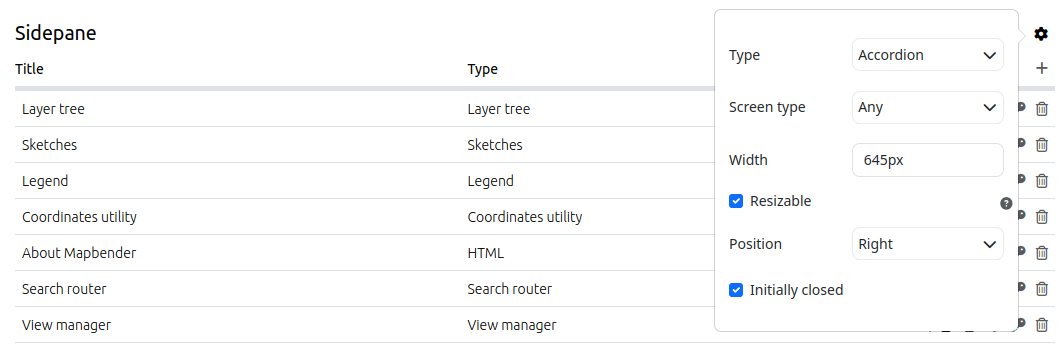
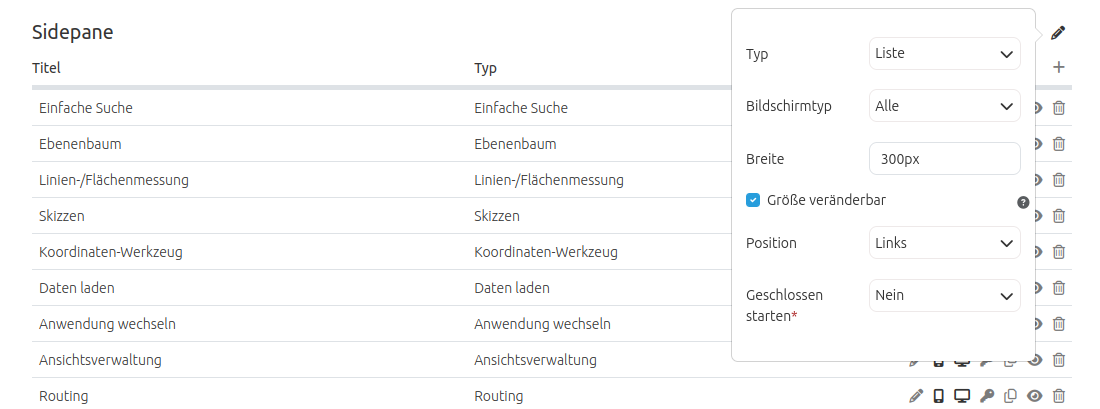
update Backend region menu options and screenshot and migration

diff --git a/de/backend/applications/layouts.rst b/de/backend/applications/layouts.rst
@@ -12,23 +12,15 @@ Layouts
 Im Layouts-Bereich des :ref:`backend_de` einer Anwendung werden die jeweiligen Frontend-Regionen der Anwendung und die in ihnen enthaltenen Elemente aufgelistet.
 Eine Übersicht über alle Elemente gibt es unter :ref:`elements_de`.
 
-.. note:: Unterschiedliche Templates können durch unterschiedliche Regionen strukturiert sein.
+.. note:: Unterschiedliche Templates können durch unterschiedliche Regionen strukturiert sein. Die Demo-Anwendungen nutzen das selbe Layout. Nicht jedes Element kann in jeder Region verwendet werden. Mapbender achtet darauf.
 
 
 Layout des Fullscreen Templates:
 
-* Obere Werkzeugleiste (Region für die Platzierung von Buttons, Links, HTML, ...)
-* Sidepane (Seitenleisten-Region für den Ebenenbaum, die Legende, die Suche, den Druck, HTML, ...)
-* Kartenbereich (Region für die Karte, die Maßstabsleiste, ...)
-* Fußzeile (Region für das Impressum, die Aktivitätsanzeige, die Maßstabsauswahl, ...)
-
-
-Layout des Mobilen Templates:
-
-* Fußzeile (Region für das Copyright, die Aktivitätsanzeige, die Maßstabsauswahl, ...)
-* Kartenbereich (Region für die Karte, die Maßstabsleiste, ...)
-* MobilePane (Region für Dialoge wie den Ebenenbaum, die Legende, den Hintergrundwechsler, die Infoabfrage, ...)
-
+* **Obere Werkzeugleiste** - Region für die Platzierung von Buttons, Links, HTML, ...
+* **Sidepane** - Seitenleisten-Region für den Ebenenbaum, die Legende, die Suche, den Druck, HTML, ...
+* **Kartenbereich** - Region für die Karte, die Maßstabsleiste, ...
+* **Fußzeile** - Region für das Impressum, die Aktivitätsanzeige, die Maßstabsauswahl, ...
 
 Der |mapbender-button-add| Button rechts oberhalb des Bereichs ermöglicht das Hinzufügen von Elementen. Nach dem Klick auf den Button öffnet sich eine Dialogmaske, die die Auswahl eines Elements und dessen anschließende Konfiguration ermöglicht.
 
@@ -44,9 +36,9 @@ Konfigurationsmöglichkeiten der Oberen Werkzeugleiste und Fußzeile
 Die Regionen der Oberen Werkzeugleiste und der Fußzeile bieten folgende Konfigurationsmöglichkeiten über den |mapbender-button-edit| Button an:
 
 * **Bildschirmtyp** (Alle, Mobil, Desktop. Standard: Alle) Bei dieser Option wird der Bereich für die nicht ausgewählte Geräteart ausgeblendet. *Alle* zeigt die Region auf allen Geräten an.
-* **Ausrichtung** (Links, Rechts, Zentriert. Standard: Rechts.): Die Ausrichtung definiert die Positionierung der Elemente innerhalb der Bereiche.
-* **Checkbox Schaltflächen zu Menü zusammenfassen**: Konfiguriert ein Ausklappmenü, welches die in den Bereich eingebundenen Elemente umfasst.
-* **Menütitel-Textfeld**: Mit dieser Textbox lässt sich dem Ausklappmenü eine Beschriftung zuweisen.
+* **Ausrichtung** (Links, Rechts, Zentriert. Standard: Rechts): Die Ausrichtung definiert die Positionierung der Elemente innerhalb der Bereiche.
+* **Menü**: (No, nur Desktop, nur Mobil, Desktop + Mobil, Standard: nur Mobil) Elemente werden in ein aufklappbares Menü zusammengefasst.
+* **Menütitel**: Es lässt sich ein Text definieren, der dem Menü vorangestellt wird.
 
 .. tip:: **Hinweis**: Das Ausklappmenü ist besonders sinnvoll, wenn die Anwendung für mobile Endgeräte ausgerichtet sein soll. Unter :ref:`CSS_de` findet sich ein Codebaustein, der die Bedienbarkeit bei Anwendungen mit vielen Elementen erhöht. 
 
@@ -58,10 +50,10 @@ Diese Vorlage kann zur **Eigenschaftenkonfiguration** der Oberen Werkzeugleiste 
 
     - name: toolbar
       properties:
-        item_alignment: right  # right/left/center
-        screenType: all         # desktop/mobile/all
-        generate_button_menu: false # true/false
-        menu_label: "Menu" # NULL or text
+        item_alignment: right # right/left/center - Standard right
+        screenType: all # all/desktop/mobile - Standard all
+        generate_button_menu: only_mobile # no/yes/only_desktop/only_mobile - Standard only_mobile
+        menu_label: "Menu" # NULL oder Text
 
 Außerdem kann diese Vorlage verwendet werden, um eine **Eigenschaftenkonfiguration** für die Fußzeile einer YAML-Anwendung vorzunehmen:
 
@@ -69,10 +61,14 @@ Außerdem kann diese Vorlage verwendet werden, um eine **Eigenschaftenkonfigurat
 
     - name: footer
       properties:
-        item_alignment: right # right/left/center
-        screenType: all # all/desktop/mobile
-        generate_button_menu: false # true/false
-        menu_label: "Menu" # NULL or text
+        item_alignment: right # right/left/center - Standard right
+        screenType: all # all/desktop/mobile - Standard all
+        generate_button_menu: only_mobile # no/yes/only_desktop/only_mobile - Standard only_mobile
+        menu_label: "Menu" # NULL oder Text
+
+
+.. image:: ../../../figures/de/toolbar_backend.png
+    :alt: Mapbender Toolbar Optionen
 
 
 Sidepane-Konfigurationsmöglichkeiten
@@ -88,12 +84,13 @@ Die Ansichtsoptionen für die Sidepane können im Sidepane-Bereich im Mapbender-
 * **Breite** (in Pixeln, Standard: 350 px) Definiert über einen Pixelwert die Breite der Sidepane in der Anwendung.
 * **Größe veränderbar** (Standard: true): Erlaubt das Verbreitern und Verkleinern der Seitenleiste.
 * **Position** (Links, Rechts. Standard: Links) gibt an, ob die Sidepane am linken oder rechten Bildschirmrand angezeigt wird.
-* **Geschlossen starten** (Standard: deaktiviert) hält nach Aktivierung die Sidepane bei Anwendungsstart eingeklappt. Sie ist über einen Button in der Anwendung nachträglich aus- & wieder einklappbar.
+* **Geschlossen starten** (No, nur Desktop, nur Mobil, Desktop + Mobil) Verhalten der  Sidepane bei Anwendungsstart - zugeklappt / aufgeklappt.
 
 Die Option **Typ** zeigt die Sidepane-Elemente in unterschiedlichen Ansichten an:
 
-- ``Akkordeon`` zeigt alle hinzugefügten Elemente in Reitern.
 - ``Buttons`` zeigt alle hinzugefügten Elemente über Buttons.
+- ``Akkordeon`` zeigt alle hinzugefügten Elemente in Reitern.
+- ``Liste`` zeigt alle Elemente als Liste. Das aktive Element nimmt den gesamten Bereich der Sidepane ein.
 - ``Unformatiert`` verzichtet auf Styling-Optionen und zeigt die Elemente direkt und in der im :ref:`backend_de` gewählten Reihenfolge untereinander an.
 
 Die Option **Größe verändern** geht von einer minimalen Breite von 120 px und einem Maximum von 95 % der Bildschirmbreite aus. Diese Werte können über CSS angepasst werden:
@@ -115,13 +112,15 @@ Diese Vorlage kann zur **Eigenschaftenkonfiguration** der Sidepane in einer YAML
       properties:
         name: accordion # tabs (für Button) / accordion (für Akkordeon) / NULL (für unformatiert)
         align: right # right/left
-        closed: false # true/false
+        closed: no # no/yes/only_desktop/only_mobile
         screenType: all # all/desktop/mobile
         width: "654px"
+
 
 Element-Buttonleiste
 ********************
 Jedem Element kann ein konfigurierter Button zugewiesen werden. Die Buttonleiste dient der Konfiguration dieser Buttons.
+
 Dabei verfügen die Buttons über folgende Optionen:
 
 .. image:: ../../../figures/mapbender_layouts_button_area.png
@@ -163,7 +162,3 @@ Der Schlüssel wird nach erfolgreicher Rechtevergabe rot. Wenn Sie nun den Curso
 
 Detaillierte Informationen zu den Sicherheitseinstellungen finden sich unter :ref:`de/backend/FOM/index:Rechteverwaltung`.
 
-
-Löschen
-=======
-Löscht das Element mitsamt der konfigurierten Einstellungen aus Front- und Backend.

diff --git a/en/backend/applications/layouts.rst b/en/backend/applications/layouts.rst
@@ -12,29 +12,22 @@ Layouts
 The Layouts section in the :ref:`backend` of an application gives an overview of the regions (layout sections) of the application. In those regions, the elements of the application are listed.
 An overview of all elements is available under :ref:`elements`.
 
-.. note:: Different templates can have different regions: In the demo applications you can see two different region layouts. Not every element can be used in every region. Mapbender cares about that.
+.. note:: Different templates can have different regions: In the demo applications we use the same region layouts. Not every element can be used in every region. Mapbender cares about that.
 
 
 Layout of the Fullscreen template:
 
-* Top toolbar (region for Buttons, Links, HTML,...)
-* Sidepane (region for Layertree, Legend, Search, Print, HTML,...)
-* Map area (region for Map, Scalebar,...)
-* Footer (region for Copyright, Activity Indicator, Scale select,...)
-
-
-Layout of the Mobile template:
-
-* Footer (region for Copyright, Activity Indicator, Scale select,...)
-* Map area (region for Map, Scalebar,...)
-* MobilePane (region for dialogs like Layertree, Legend, BaseSourceSwicther, FeatureInfo,...)
+* **Top toolbar** - region for Buttons, Links, HTML,...
+* **Sidepane** - region for Layertree, Legend, Search, Print, HTML,...
+* **Map area** - region for Map, Scalebar,...
+* **Footer** - region for Copyright, Activity Indicator, Scale select,...
 
 
 The |mapbender-button-add| button located at the top right of each region allows adding elements. After pressing the button, a dialog will open, which allows for the selection of an element and its subsequent configuration.
 
 All elements in an application can be moved between regions using drag and drop.
 
-The regions themselves can be configured using the |mapbender-button-edit| button at right. There is no configuration option for region Map area and MobilePane.
+The regions themselves can be configured using the |mapbender-button-edit| button in the top right corner of each region.
 
 The regions Top toolbar and Footer provide the following configuration options:
 
@@ -43,10 +36,10 @@ Configuration of the Top toolbar and the Footer
 ***********************************************
 The Top toolbar and the Footer provide the following configuration options:
 
-* **Screen type** (Any, Mobile, Desktop. Default: Any): The region will not be displayed when other screen types are used. *Any* will always show the region.
-* **Alignment** (Left, Right, Center. Default: Right): Sets the alignment for the buttons, texts, links.
-* **Generate menu for buttons**:Creates a dropdown menu for the elements.
-* **Menu label input field**: Labeling for the dropdown menu.
+* **Screen type**: (Any, Mobile, Desktop. Default: Any) The region will not be displayed when other screen types are used. *Any* will always show the region.
+* **Alignment**: (Left, Right, Center. Default: Right) Sets the alignment for the buttons, texts, links.
+* **Generate menu for buttons**: (No, Desktop only, Mobile only, Desktop + Mobile, Default: Mobile only) Creates a dropdown menu for the elements.
+* **Menu label input field**: Labeling for the dropdown menu. Default no Labeling.
 
 .. tip:: **Note**: Using the dropdown menu is especially handy on mobile devices. There is a code snippet in :ref:`CSS` that adds a scroll bar to the menu and helps to increase the user experience. 
 
@@ -58,9 +51,9 @@ This template can be used to configure the **properties** of the toolbar in a YA
 
     - name: toolbar
       properties:
-        item_alignment: right  # right/left/center
-        screenType: all         # desktop/mobile/all
-        generate_button_menu: false # true/false
+        item_alignment: right  # right/left/center - default right
+        screenType: all         # desktop/mobile/all - default all
+        generate_button_menu: only_mobile # no/yes/only_desktop/only_mobile - default only_mobile
         menu_label: "Menu" # NULL or text
 
 Besides, this template can be used to configure the **properties** of the footer in a YAML application:
@@ -69,10 +62,14 @@ Besides, this template can be used to configure the **properties** of the footer
 
     - name: footer
       properties:
-        item_alignment: right # right/left/center
-        screenType: all # all/desktop/mobile
-        generate_button_menu: false # true/false
+        item_alignment: right # right/left/center - default right
+        screenType: all # all/desktop/mobile - default all
+        generate_button_menu: only_mobile # no/yes/only_desktop/only_mobile - default only_mobile
         menu_label: "Menu" # NULL or text
+
+.. image:: ../../../figures/toolbar_backend.png
+    :alt: Mapbender Toolbar Options
+
 
 Configuration of the Sidepane
 *****************************
@@ -82,18 +79,20 @@ The Sidepane provide the following configuration options through their |mapbende
     :alt: Mapbender Sidepane Options
 
 
-* **Type** (Accordion, Buttons, Unstyled. Default: Accordion): See explanation below.
+* **Type** (Buttons, Accordion, List, Unstyled. Default: Accordion): See explanation below.
 * **Screen type** (Any, Mobile, Desktop. Default Any): The region will not be displayed when other screen types are used. Any - will always show the region.
 * **Width** (in px) (in px. Default: 350px): Width of the Sidepane in Pixels.
 * **Resizable** (Default: true): Allows to resize the width of the sidepane.
 * **Position** (Left, Right. Default: Left): Defines the placement of the sidepane.
-* **Initially closed** (Default: disabled): Defines whether the Sidepane should be closed or open on start of the application.
+* **Initially closed** (No, Desktop only, Mobile only, Desktop + Mobile): Defines whether the Sidepane should be closed or open on start of the application.
 
 The option **Type** adjusts the inserted elements:
 
+- ``Buttons`` shows elements via buttons.
+
 - ``Accordion`` shows elements via tabs.
 
-- ``Buttons`` shows elements via buttons.
+- ``List`` shows elements as a list. The active element takes up the entire area of the Sidepane.
 
 - ``Unstyled`` does not contain any styling options at all and displays the elements in the configured :ref:`backend` order.
 
@@ -116,13 +115,15 @@ This template can be used to configure the **properties** of the sidepane in a Y
       properties:
         name: accordion # tabs (for button) / accordion / NULL (for unstyled)
         align: right # right/left
-        closed: false # true/false
+        closed: no # no/yes/only_desktop/only_mobile
         screenType: all # all/desktop/mobile
         width: "654px"
+
 
 Button area (Elements)
 **********************
 Every element offers a set of buttons for configuration. The button area helps configuring elements in their specific regions.
+
 The following button functions are available:
 
 .. image:: ../../../figures/mapbender_layouts_button_area.png
@@ -165,7 +166,3 @@ After setting specific access rights, the security key turns red.
 
 You can find more security details under :ref:`en/backend/FOM/index:Permission management`.
 
-
-Delete
-======
-Removes an element from both front- and :ref:`backend`.

diff --git a/de/installation/migration.rst b/de/installation/migration.rst
@@ -13,6 +13,12 @@ Migrations-Leitfaden
     Für ausführliche Informationen des Mapbender-Entwicklungsteams siehe auch den `Upgrading Guide auf GitHub <https://github.com/mapbender/mapbender/blob/master/docs/UPGRADING.md>`_.
 
 
+Umstellung auf Mapbender 5.0.0
+******************************
+
+* Schauen Sie sich den ausführlichen `Upgrading Guide auf GitHub <https://github.com/mapbender/mapbender/blob/master/docs/UPGRADING.md>`_ sorgfältig an, bevor Sie das Update durchführen.
+
+
 Umstellung auf Mapbender 4.0.0
 ******************************
 

diff --git a/en/installation/migration.rst b/en/installation/migration.rst
@@ -10,7 +10,12 @@ Migration Guide
 .. tip::
     
     For in-depth information from the Mapbender development team, also see the `Upgrading Guide on GitHub <https://github.com/mapbender/mapbender/blob/master/docs/UPGRADING.md>`_.
-    
+
+
+Migration to Mapbender 5.0.0
+****************************
+
+* Carefully check the `Upgrading Guide on GitHub <https://github.com/mapbender/mapbender/blob/master/docs/UPGRADING.md>`_ before you do the update.    
 
 Migration to Mapbender 4.0.0
 ****************************
